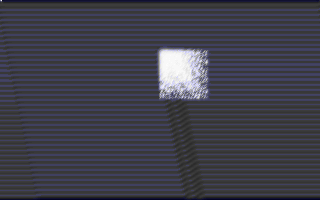
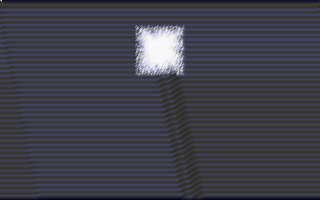
cpu: fix bug in sar

Changed region(s): [[0.4062, 0.12, 1.0, 0.99], [0.0, 0.3, 0.0625, 0.51]]

diff --git a/src/cpu.rs b/src/cpu.rs
@@ -1318,9 +1318,18 @@ impl CPU {
             Op::Sar8() => {
                 // Signed divide* r/m8 by 2, imm8 times.
                 let dst = self.read_parameter_value(&op.params.dst);
-                let count = self.read_parameter_value(&op.params.src);
+                let mut count = self.read_parameter_value(&op.params.src);
+                if count > 8 {
+                    count = 8;
+                }
 
-                let res = dst.rotate_right(count as u32);
+                let res = if dst & 0x80 != 0 {
+                    let x = 0xFF as usize;
+                    dst.rotate_right(count as u32) | x.rotate_left(8 - count as u32)
+                } else {
+                    dst.rotate_right(count as u32)
+                };
+
                 self.write_parameter_u8(&op.params.dst, (res & 0xFF) as u8);
 
                 // The CF flag contains the value of the last bit shifted out of the destination operand.
@@ -1338,11 +1347,18 @@ impl CPU {
             Op::Sar16() => {
                 // Signed divide* r/m8 by 2, imm8 times.
                 // two arguments
-
                 let dst = self.read_parameter_value(&op.params.dst);
-                let count = self.read_parameter_value(&op.params.src);
+                let mut count = self.read_parameter_value(&op.params.src);
+                if count > 16 {
+                    count = 16;
+                }
+                let res = if dst & 0x8000 != 0 {
+                    let x = 0xFFFF as usize;
+                    dst.rotate_right(count as u32) | x.rotate_left(16 - count as u32)
+                } else {
+                    dst.rotate_right(count as u32)
+                };
 
-                let res = dst.rotate_right(count as u32);
                 self.write_parameter_u16(op.segment, &op.params.dst, (res & 0xFFFF) as u16);
 
                 // The CF flag contains the value of the last bit shifted out of the destination operand.

diff --git a/src/cpu_test.rs b/src/cpu_test.rs
@@ -1061,15 +1061,14 @@ fn can_execute_sar8() {
     let mmu = MMU::new();
 let mut cpu = CPU::new(mmu);
     let code: Vec<u8> = vec![
-        0xB4, 0x34,       // mov ah,0x34
+        0xB4, 0xFE,       // mov ah,0xfe
         0xC0, 0xFC, 0x04, // sar ah,byte 0x4
     ];
     cpu.load_com(&code);
 
     cpu.execute_instruction();
     cpu.execute_instruction();
-    assert_eq!(0x03,  cpu.r16[AX].hi_u8());
-    // XXX flags
+    assert_eq!(0xFF, cpu.r16[AX].hi_u8());
 }
 
 #[test]
@@ -1077,21 +1076,14 @@ fn can_execute_sar16() {
     let mmu = MMU::new();
 let mut cpu = CPU::new(mmu);
     let code: Vec<u8> = vec![
-        0xB8, 0xF5, 0x05, // mov ax,0x5f5
-        0xC1, 0xF8, 0x09, // sar ax,byte 0x9
+        0xB8, 0x85, 0xFE, // mov ax,0xfe85
+        0xC1, 0xF8, 0x07, // sar ax,byte 0x7
     ];
     cpu.load_com(&code);
 
     cpu.execute_instruction();
-    assert_eq!(0x05F5, cpu.r16[AX].val);
-
     cpu.execute_instruction();
-    assert_eq!(0x0002,  cpu.r16[AX].val);
-    assert_eq!(true, cpu.flags.carry);
-    assert_eq!(false, cpu.flags.zero);
-    assert_eq!(false, cpu.flags.sign);
-    assert_eq!(false, cpu.flags.overflow);
-    assert_eq!(false, cpu.flags.parity);
+    assert_eq!(0xFFFD, cpu.r16[AX].val);
 }
 
 #[test]
